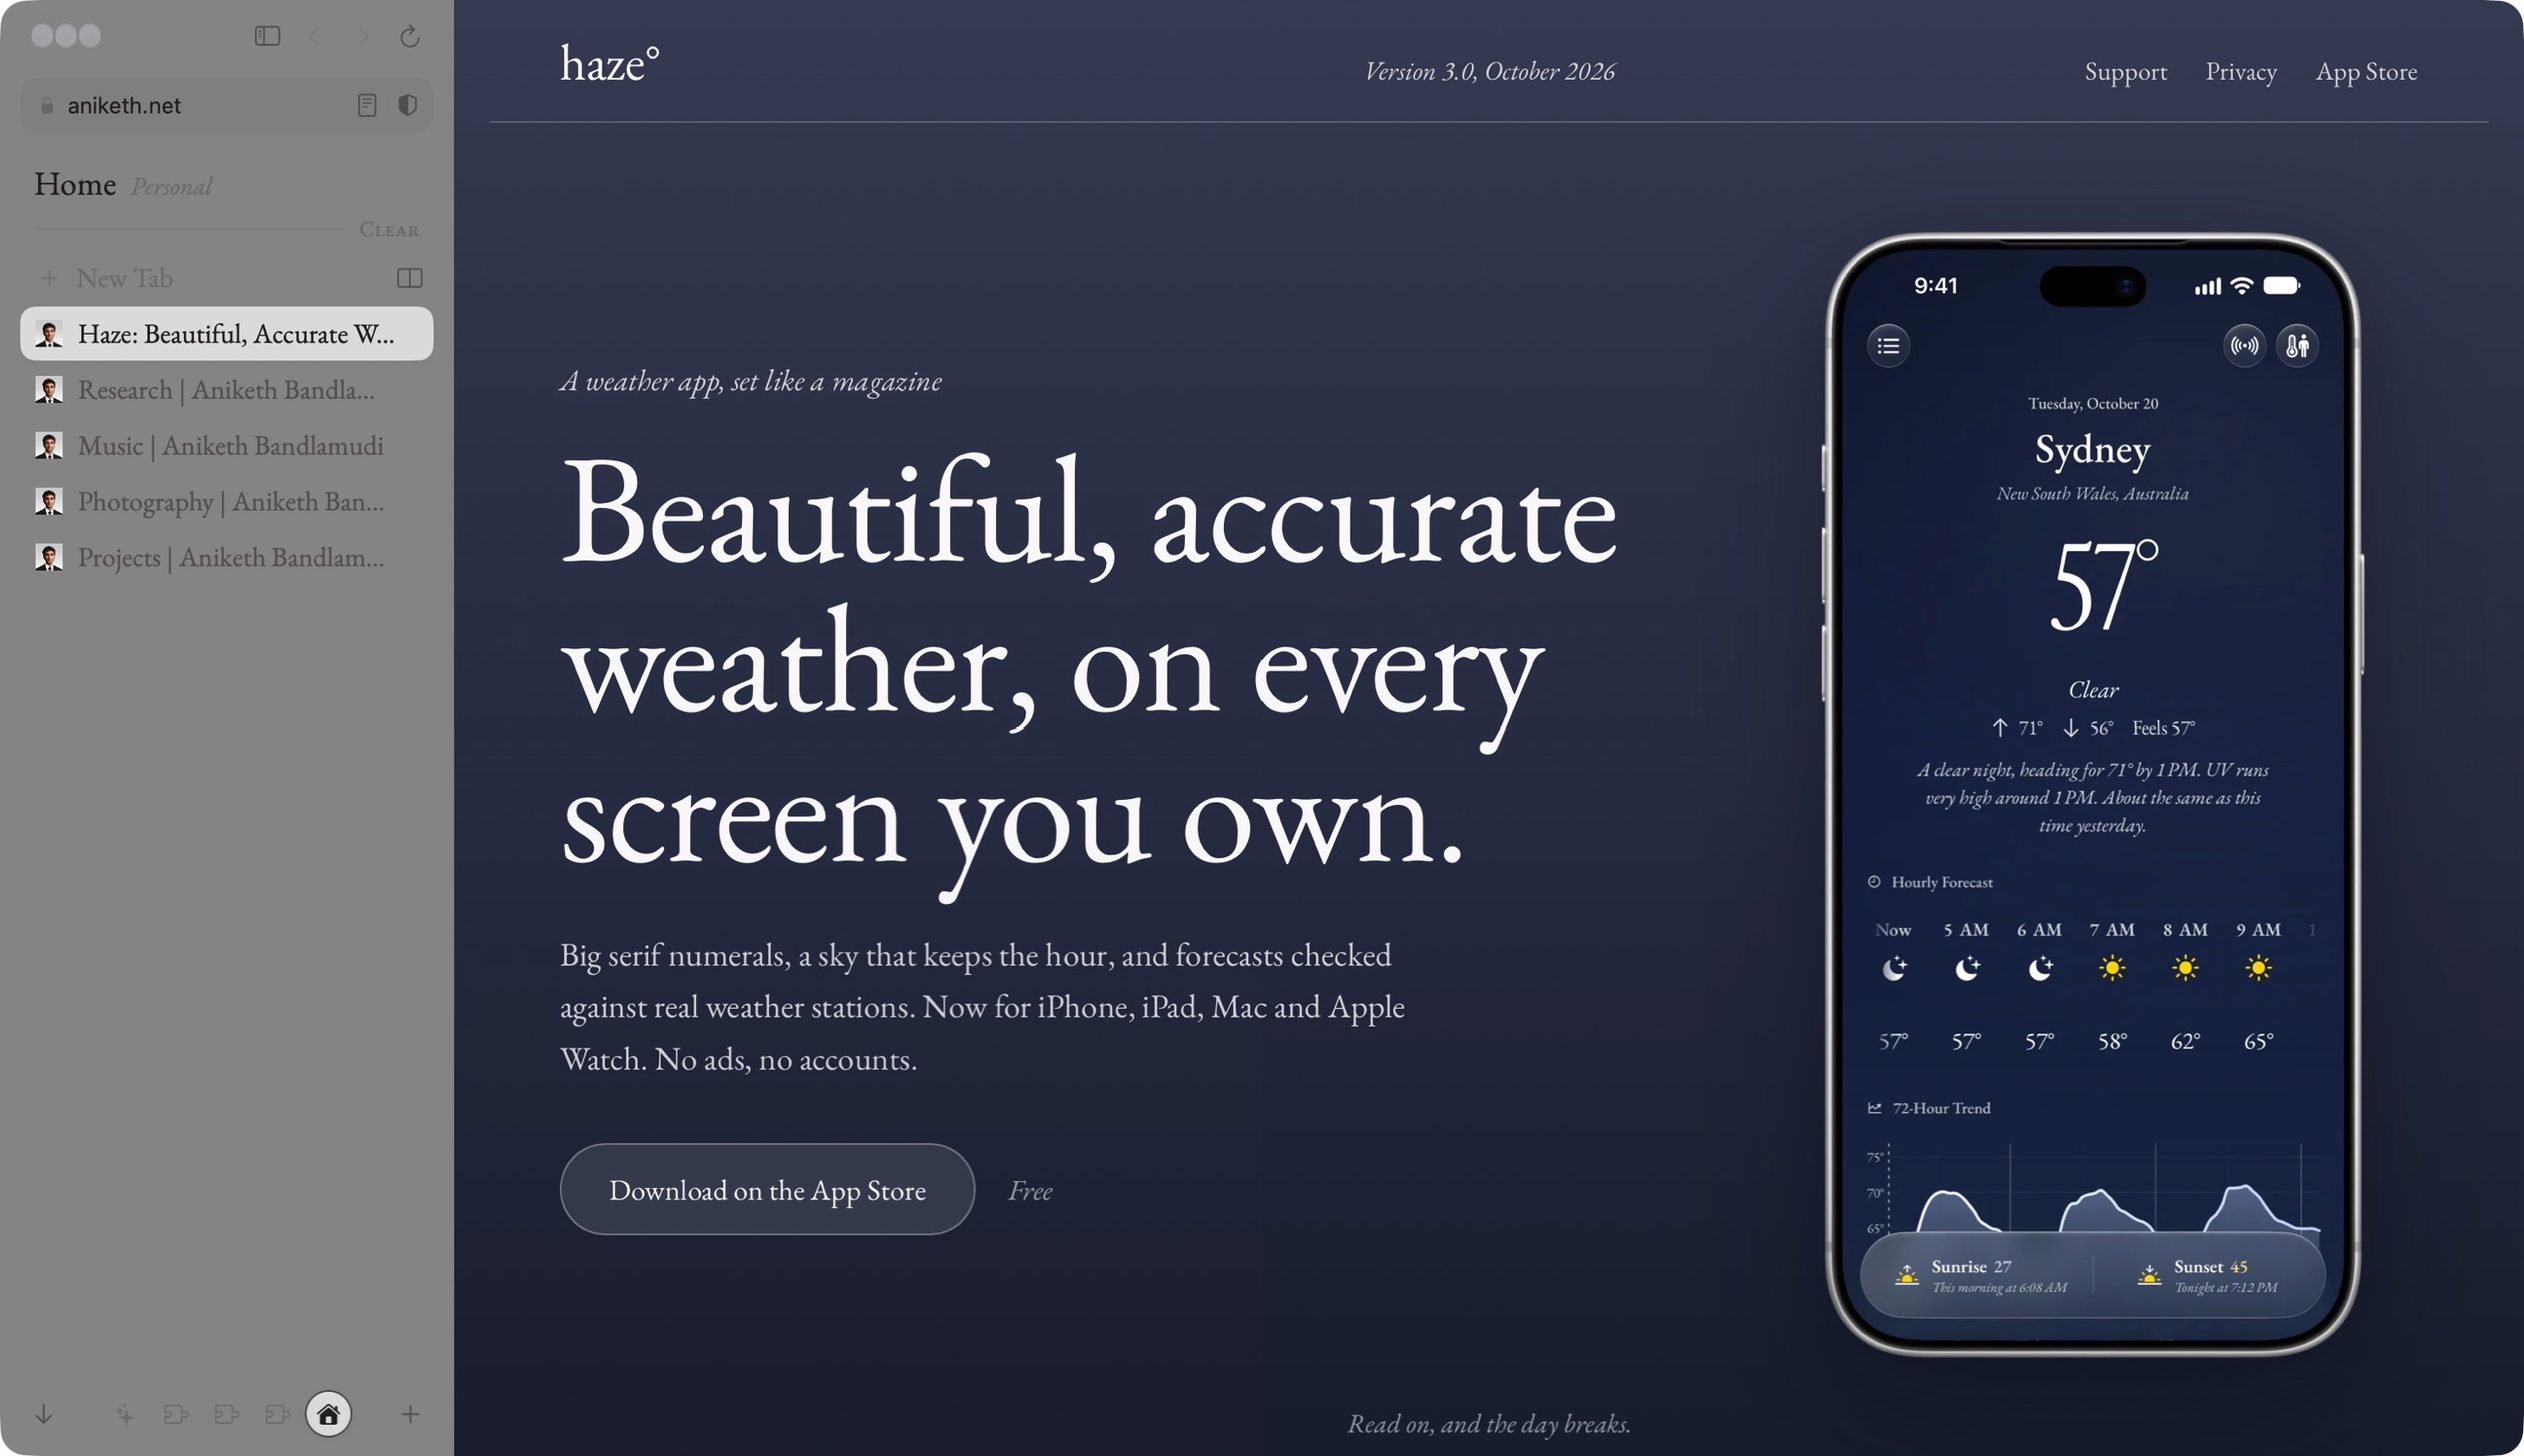
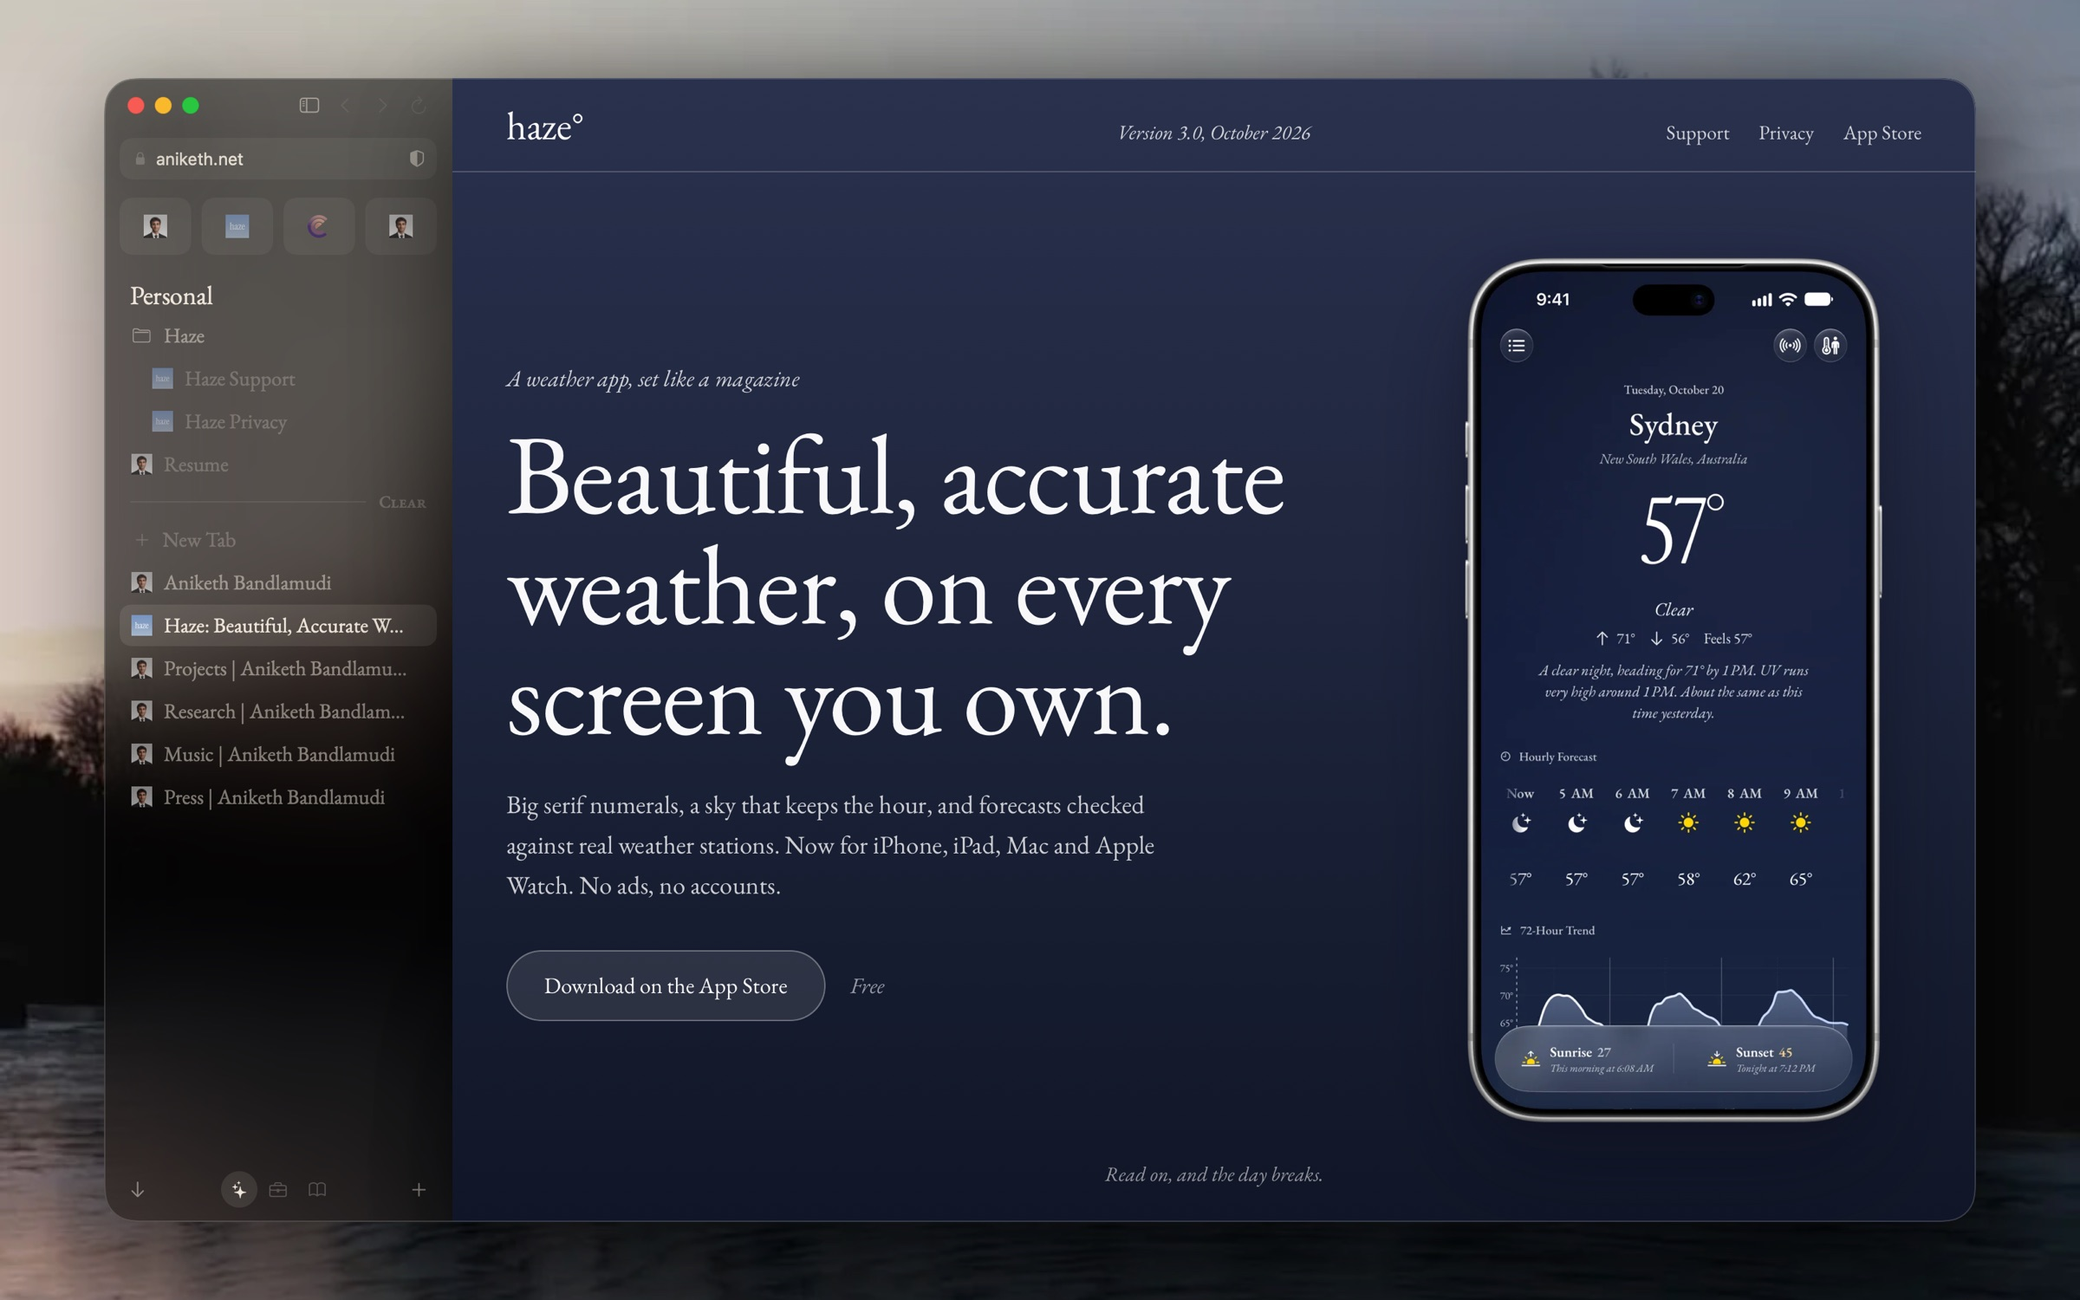
Show Iris on the desktop at dusk on its page
The main picture is now the whole Iris window over a dusk photograph,
the sidebar's glass letting the landscape through: favorites, a folder
of Haze's pages and today's tabs, all from aniketh.net, beside the Haze
page.

diff --git a/iris/index.html b/iris/index.html
@@ -15,8 +15,8 @@
   <meta property="og:description" content="A browser for the Mac, built on WebKit: Spaces in a sidebar, Chrome extensions, passwords in your Mac’s keychain, and ads and trackers blocked. Coming soon, free.">
   <meta property="og:url" content="https://aniketh.net/iris/">
   <meta property="og:image" content="https://aniketh.net/assets/img/iris/window.jpg">
-  <meta property="og:image:width" content="2912">
-  <meta property="og:image:height" content="1680">
+  <meta property="og:image:width" content="2400">
+  <meta property="og:image:height" content="1500">
 
   <!-- Twitter Card -->
   <meta name="twitter:card" content="summary_large_image">
@@ -75,8 +75,8 @@
         </div>
       </div>
       <figure class="cover__window">
-        <img src="/assets/img/iris/window.jpg" alt="Iris on a Mac: a sidebar with a Space called Home and its tabs, beside the Haze page" width="2912" height="1680">
-        <figcaption>The Haze page in Iris, with a Space called Home in the sidebar.</figcaption>
+        <img src="/assets/img/iris/window.jpg" alt="Iris on a Mac at dusk: a glass sidebar of Spaces, favorites, a folder and tabs, beside the Haze page" width="2400" height="1500">
+        <figcaption>The sidebar is glass, so the desktop shows through, and the page runs edge to edge.</figcaption>
       </figure>
     </section>
 
